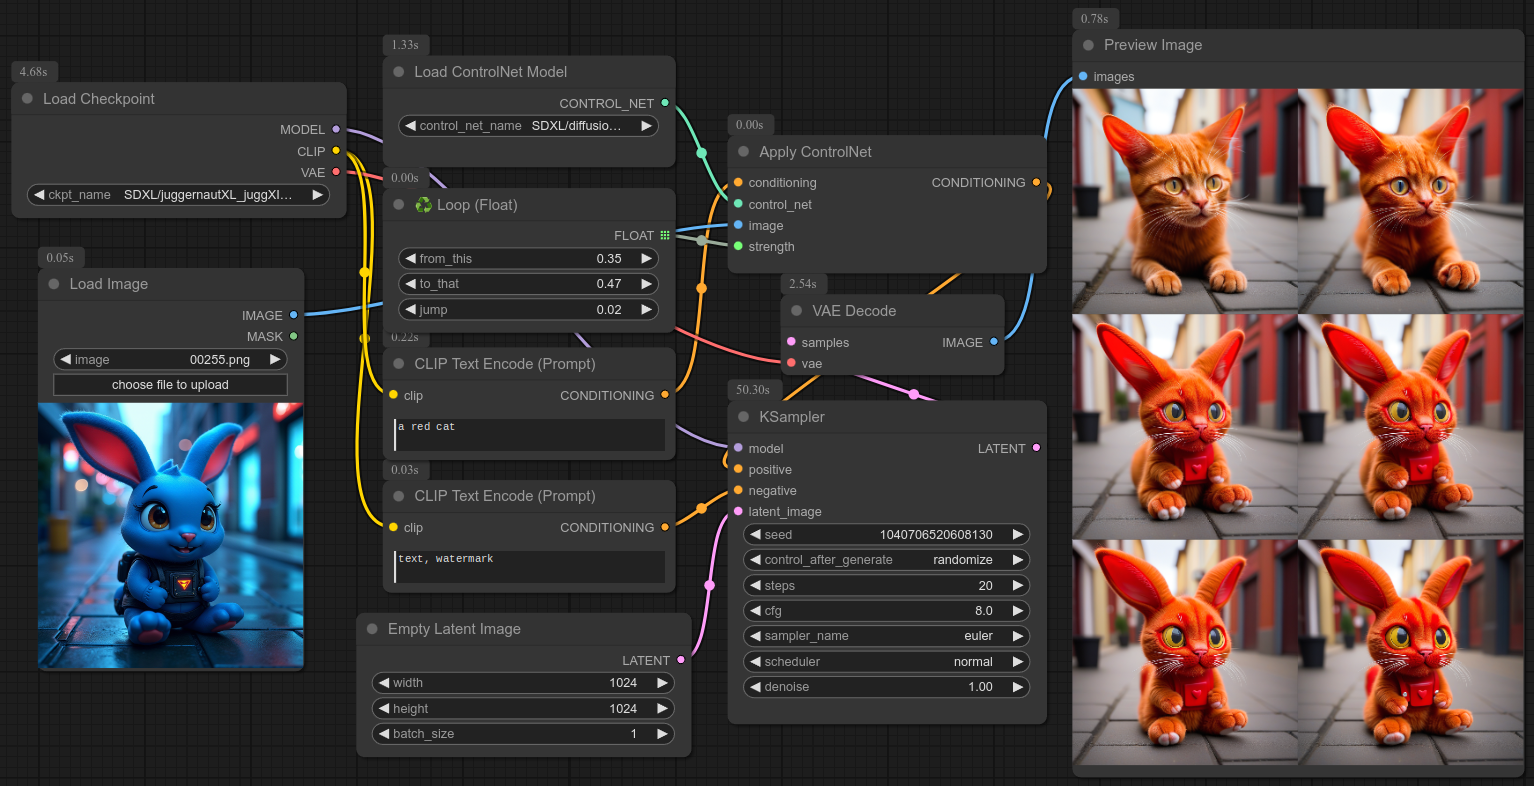
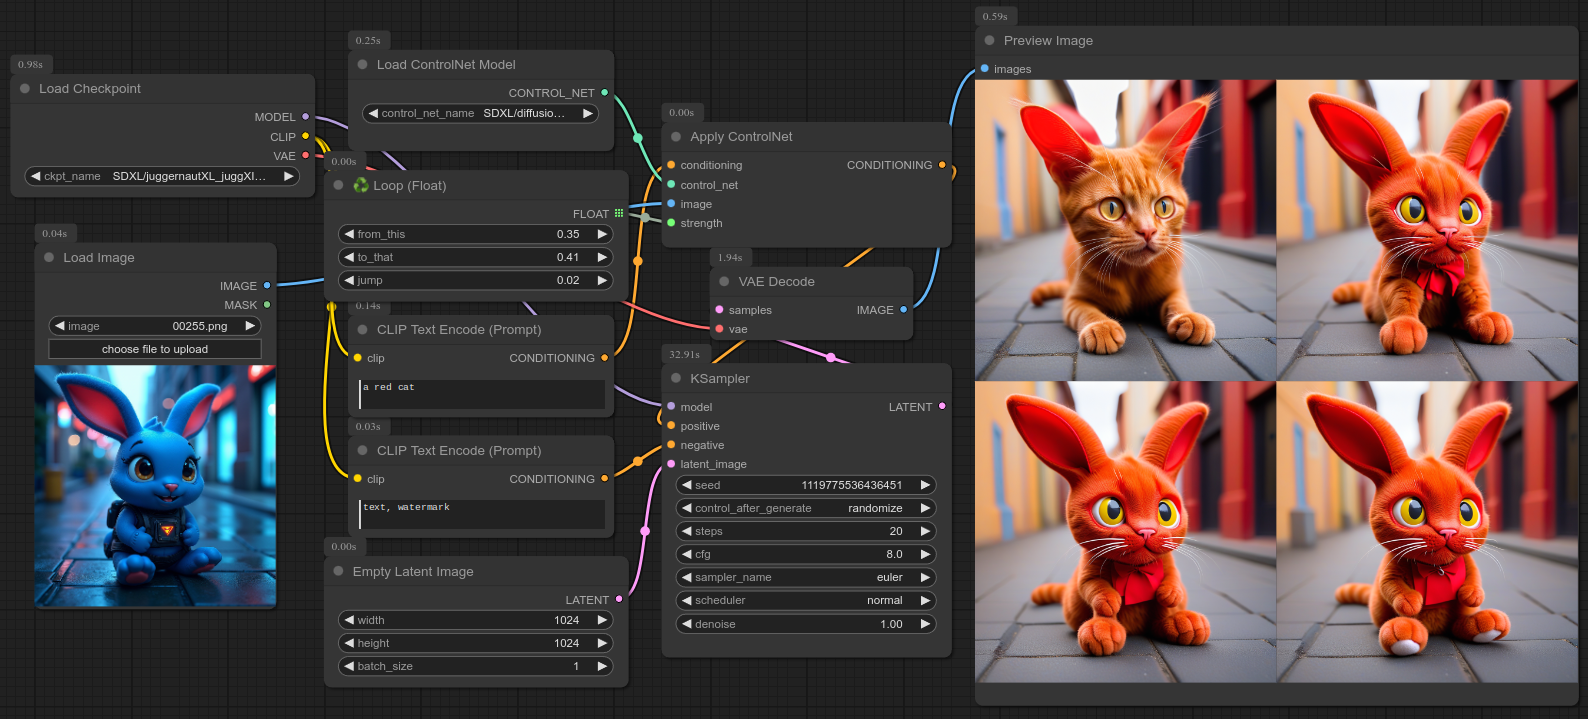
0.29

diff --git a/loop_float.py b/loop_float.py
@@ -1,3 +1,4 @@
+from decimal import Decimal, ROUND_HALF_UP
 class LoopFloat:
 
     @classmethod
@@ -17,8 +18,12 @@ class LoopFloat:
 
     def create_loop_float(self, from_this, to_that, jump):
         range_values = []
-        current_value = from_this
+        current_value = Decimal(str(from_this))
+        to_that = Decimal(str(to_that))
+        jump = Decimal(str(jump))
+        
         while current_value <= to_that:
-            range_values.append(round(current_value, 2))  # Round to two decimal places
+            range_values.append(float(current_value.quantize(Decimal('0.01'), rounding=ROUND_HALF_UP)))
             current_value += jump
+        
         return (range_values,)

diff --git a/README.md b/README.md
@@ -1,4 +1,4 @@
-# 🔗 Comfyui : Bjornulf_custom_nodes v0.28 🔗
+# 🔗 Comfyui : Bjornulf_custom_nodes v0.29 🔗
 
 # ❤ Coffee : ☕☕☕☕☕ 5/5
 
@@ -76,6 +76,7 @@ wget --content-disposition -P /workspace/ComfyUI/models/checkpoints "https://civ
 - **v0.26**: New node : Loop write Text. Also increase nb of inputs allowed for most nodes. (+ update some breaking changes)
 - **v0.27**: Two new nodes : Loop (Model+Clip+Vae) and Random (Model+Clip+Vae) - aka Checkpoint / Model
 - **v0.28**: Fix random texts and add a lot of screenshots examples for several nodes.
+- **v0.29**: Fix floating points issues with loop float node.
 
 # 📝 Nodes descriptions
 
